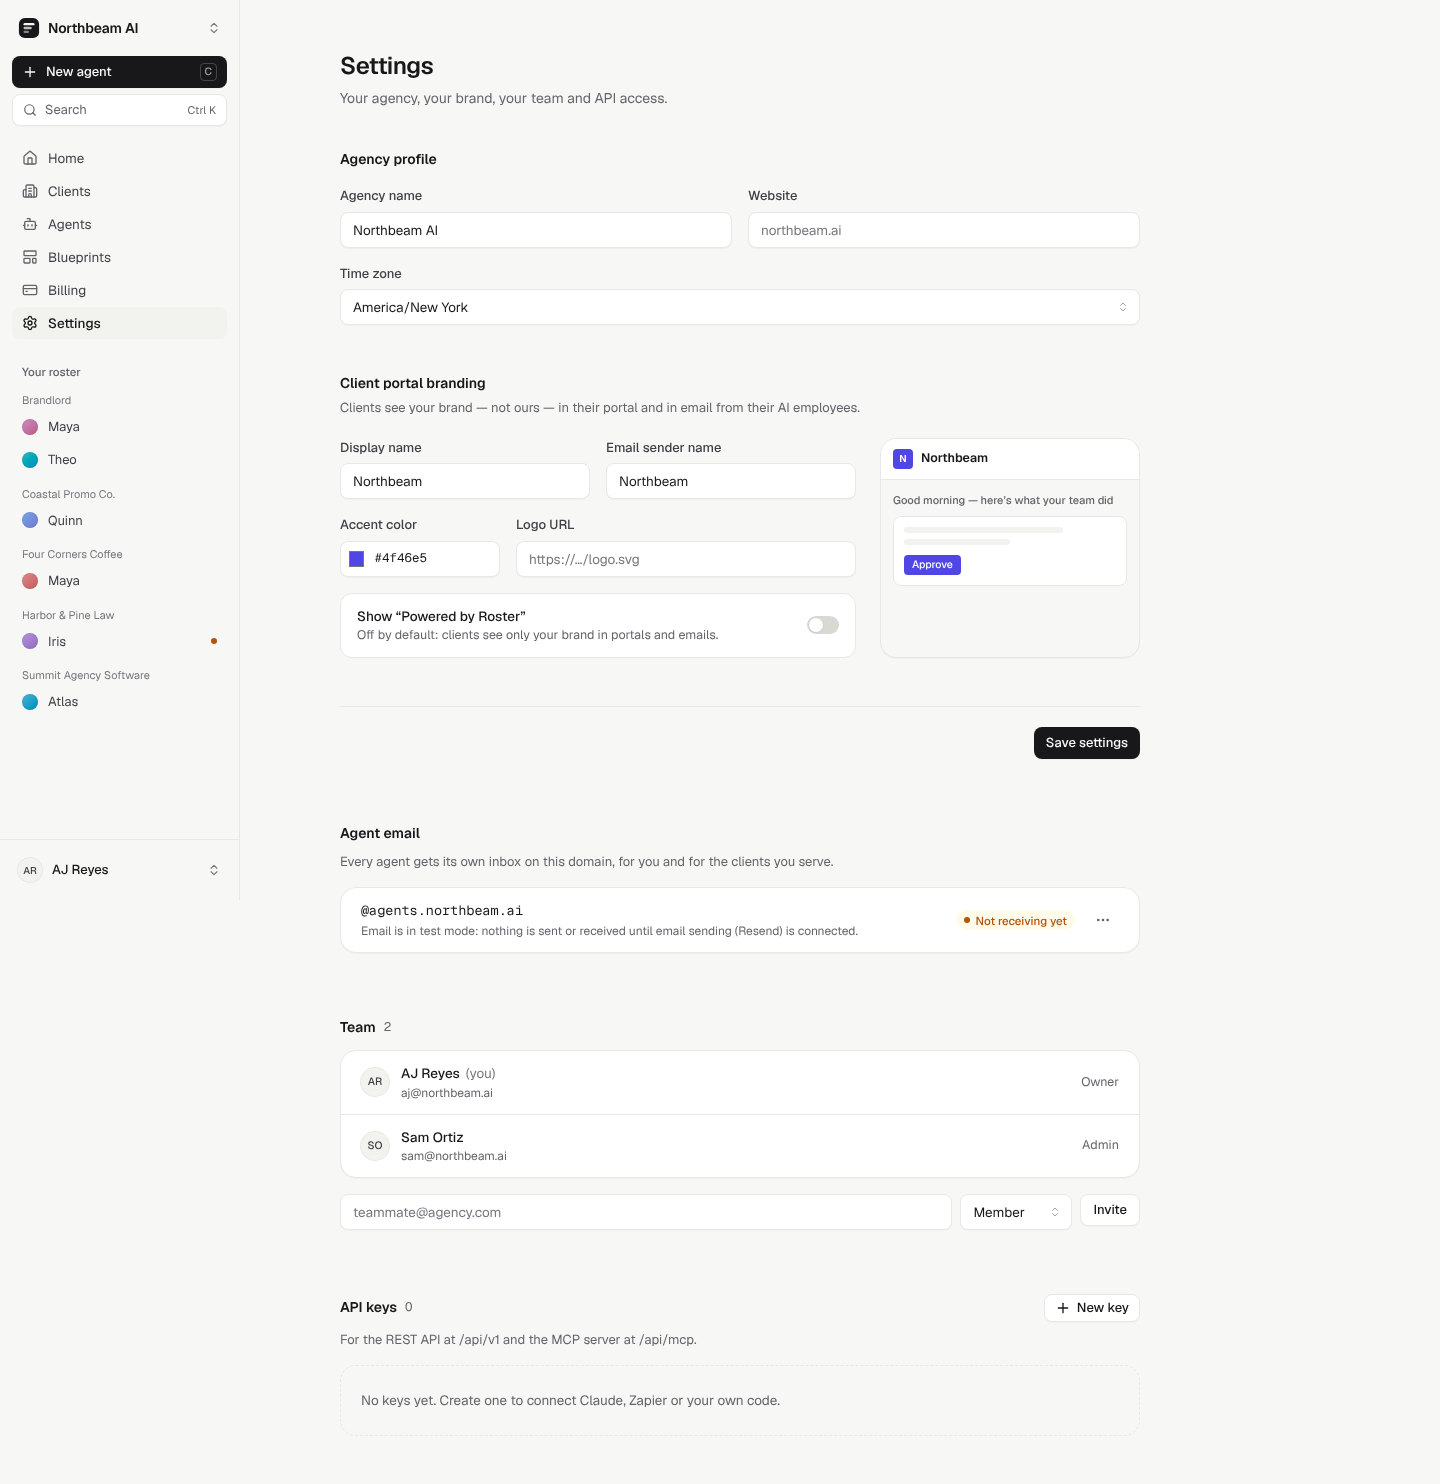
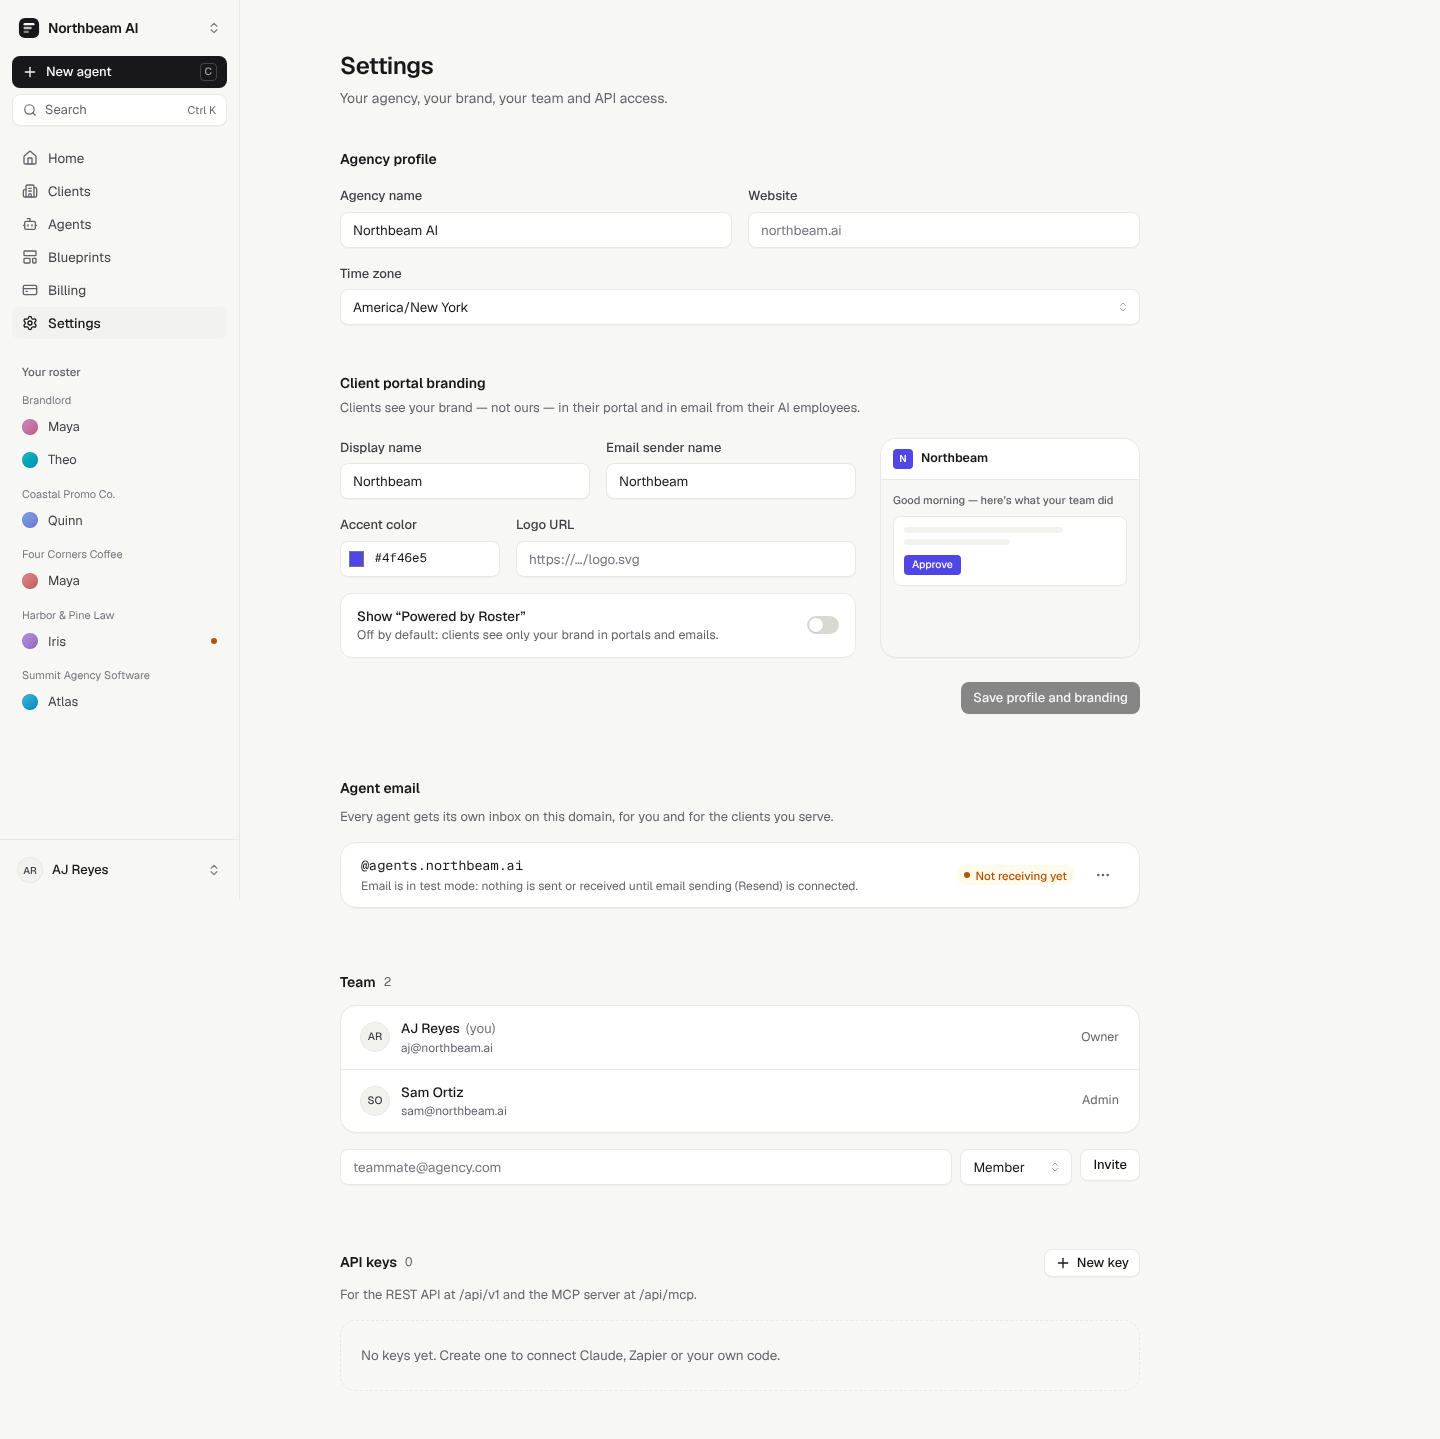
Portal: one email readiness state (addresses only when receiving), ⌘K palette with org-scoped search, exception-only status pills, timezone-correct greeting, deduped review cards
Claude-Session: https://claude.ai/code/session_01R829g3cx373VGQG4xJfwq5

diff --git a/tests/offline.compose.ridgeline.test.ts b/tests/offline.compose.ridgeline.test.ts
@@ -1,0 +1,97 @@
+/**
+ * Critic r5 (insurance agency, 18-row renewals.csv) regressions: the ask "every policy renewing in the next 30 days
+ * that hasn't been quoted yet, soonest first, a renewal email to each client" is 10 rows (9 without Castillo).
+ */
+import { readFileSync } from "node:fs";
+import { join } from "node:path";
+import { describe, expect, it } from "vitest";
+import { answerQuestion, compose, type Snip } from "@/server/llm/offline/compose";
+import { collectTables, planRows } from "@/server/llm/offline/tablework";
+
+const F = join(__dirname, "fixtures/ridgeline");
+const knowledge = JSON.parse(readFileSync(join(F, "knowledge.json"), "utf8")) as Snip[];
+const memories = JSON.parse(readFileSync(join(F, "memories.json"), "utf8")) as Snip[];
+const [wf] = JSON.parse(readFileSync(join(F, "workflows.json"), "utf8")) as Array<{ name: string; outputKind: string; instructions: string }>;
+const first = JSON.parse(readFileSync(join(F, "first-deliverable-input.json"), "utf8")) as Record<string, string>;
+const system = "You are Felix, Adjuster Follow-up Coordinator at Ridgeline Insurance Group.\n";
+const now = new Date("2026-11-02T08:00:00Z");
+const NINE = ["Summit Roofing", "Evergreen Landscaping", "Harlow Bakery", "Tri-County Electric", "Okoro Family Dental", "Brightwater Marina", "Northside Plumbing", "Oak Hollow Vineyard", "Delgado Auto Repair"];
+const rowsOf = (body: string) => [...body.matchAll(/^\| (\d+) \| ([^|]+) \|/gm)].map((m) => m[2]!.trim());
+const DEBUG = /Couldn't apply|no column called that|\(columns:|sort by “”|-\d+ days/;
+const run = (kind: string, title: string, output: string, body: string) => compose({ kind, title, output, body, system, knowledge, memories, now });
+
+describe("C-2 planRows reads plain asks", () => {
+  const [t] = collectTables(knowledge);
+  it("the file has 18 rows", () => expect(t!.rows).toHaveLength(18));
+  it("“next 30 days” beats the hypothetical “if I woke up tomorrow”; “hasn't been quoted” stays negative; soonest first", () => {
+    const p = planRows(t!, first.description!, [], now);
+    expect(p.applied).toEqual(["status is not quoted", "renewal date in the next 30 days"]);
+    expect(p.sortedBy).toBe("renewal date, soonest first");
+    expect(p.unmapped).toEqual([]);
+    expect(p.rows.map((r) => r[0])).toEqual(["Summit Roofing", "Evergreen Landscaping", "Harlow Bakery", "Castillo Builders", ...NINE.slice(3)]);
+  });
+  it("“not yet quoted”, “without a quote”, “most urgent first”", () => {
+    for (const ask of ["policies renewing within 30 days not yet quoted, most urgent first", "renewals in the next 30 days without a quote, earliest first"]) {
+      const p = planRows(t!, ask, [], now);
+      expect(p.rows).toHaveLength(10);
+      expect(p.rows[0]![0]).toBe("Summit Roofing");
+    }
+  });
+});
+
+describe("C-1 Run now on the email_draft workflow applies its own procedure", () => {
+  const d = run("workflow", wf!.name, wf!.outputKind, wf!.instructions);
+  it("9 rows, soonest first, Castillo skipped, one renewal email per contact", () => {
+    expect(rowsOf(d.body)).toEqual(NINE);
+    expect(d.body).toMatch(/^\| # \| client_name \| contact_name \| policy_type \| carrier \| renewal_date \| When \|$/m);
+    expect(d.body.match(/^\*\*To:\*\* /gm)).toHaveLength(9);
+    expect(d.body).toMatch(/\*\*To:\*\* Ben Carter <ben@summitroofing\.example\.com>/);
+    expect(d.body).not.toMatch(/Castillo Builders —|marco@|Blue Heron|owen@|days since we last heard/);
+    expect(d.body).not.toMatch(DEBUG);
+    expect(d.body).not.toMatch(/\$?\b(?:22100|22,100)\b[^|]*$/m); // no premium in the drafts
+  });
+  it("addresses Dr. Okoro as Dr. Okoro", () => {
+    expect(d.body).toMatch(/> Hi Dr\. Okoro,/);
+  });
+  it("never chases a lapsed client in the old follow-up path either", () => {
+    const old = run("workflow", "Follow-up", "email_draft", "Email each client with no reply in 5+ days and ask where things stand.");
+    expect(old.body).not.toMatch(/^\*\*To:\*\*.*owen@|^#### Blue Heron/m);
+  });
+});
+
+describe("first deliverable (the ask, held overnight)", () => {
+  const d = run("first_deliverable", first.title!, first.outputKind!, `${first.instructions}\n\nWhy: ${first.description}`);
+  it("lists the 10, Castillo listed but never drafted, no debug text", () => {
+    expect(rowsOf(d.body)).toHaveLength(10);
+    expect(d.body).toMatch(/\| Castillo Builders \|[^\n]*Do not contact \(your rule\)/);
+    expect(d.body).toMatch(/9 emails drafted/);
+    expect(d.body).not.toMatch(DEBUG);
+  });
+});
+
+describe("H-1 / H-3 / H-5", () => {
+  it("an unmappable sort is said once in plain words", () => {
+    const d = run("workflow", "Renewals", "table", "Use renewals.csv. List every policy that is not quoted, sorted by broker.");
+    expect(d.body).toMatch(/_Note: I couldn't tell which column “broker” means, so the rows keep the file's order\._/);
+    expect(d.body).not.toMatch(DEBUG);
+  });
+  it("a revision that cannot sort says so instead of claiming it re-sorted", () => {
+    const v1 = run("workflow", wf!.name, "table", wf!.instructions).body;
+    const r = run("revision", `${wf!.name} (revised)`, "table", `Revise the deliverable below. Feedback: Sort it by broker, top first.\n\nOriginal (“${wf!.name}”):\n${v1}`);
+    expect(r.body).not.toMatch(/re-sorted as asked/);
+  });
+  it("a draft about Erin Walsh goes to Erin, by first name, about the renewal", () => {
+    const d = run("message", "Renewal", "email_draft", "Draft a renewal email to Erin Walsh about her general liability renewal");
+    expect(d.body).toMatch(/\*\*To:\*\* Erin Walsh <erin@mapleleafdaycare\.example\.com>/);
+    expect(d.body).toMatch(/> Hi Erin,\n>\n> Your general liability policy with Philadelphia for Maple Leaf Daycare renews on Dec 1\./);
+    expect(d.body).not.toMatch(/Hi Maple|booked|7400|annual_premium/);
+  });
+  it("MCP/REST answer: same filters and sort, the full list, no negative days", () => {
+    const [a] = answerQuestion("Which policies renew in the next 30 days and are still not quoted, soonest first?", knowledge, now);
+    expect(a).toMatch(/^10 policies in renewals\.csv/);
+    expect(a).toMatch(/Summit Roofing — Nov 3 \(in 1 day\)/);
+    expect(a).toMatch(/Delgado Auto Repair — Nov 28 \(in 26 days\)/);
+    expect(a).not.toMatch(/-\d+ days|and \d+ more|Pine Street|Blue Heron/);
+    expect(a!.indexOf("Summit")).toBeLessThan(a!.indexOf("Delgado"));
+  });
+});

diff --git a/src/server/llm/offline/compose.ts b/src/server/llm/offline/compose.ts
@@ -330,7 +330,7 @@ function revise(input: ComposeInput, pool: Sent[]): Composed {
       const changed = [
         before ? (n !== m ? `${m} → ${n} rows` : `same ${n} rows`) : `turned it into the list from ${redo.data?.basis ?? "your file"} (${n} rows)`,
         /\bleave|left out|skip|remove|drop|exclude\b/i.test(fb) && (redo.data?.excluded ?? 0) > 0 ? `left out what you named` : null,
-        /\bfirst\b|\bsort|\border\b/i.test(fb) ? (redo.data?.sorted ? "re-sorted as asked" : n > 1 ? "couldn't tell how to sort it, so it keeps the file's order" : null) : null,
+        /\bfirst\b|\bsort|\border\b/i.test(fb) ? (redo.data?.sorted && fbPlans.some((x) => !!x.sortedBy) ? "re-sorted as asked" : n > 1 ? "couldn't tell how to sort it, so it keeps the file's order" : null) : null,
         /\b(?:text|message|email|reminder)s?\b/i.test(fb) && /## (?:Reminder texts|Emails)/.test(redo.body) ? "one draft per row" : null,
       ].filter(Boolean);
       return { ...redo, title: input.title, body: `## What changed\n\n${cap(changed.join("; "))}.\n\n${redo.body}`, preview: truncate(`Revised “${title}”: ${changed.join("; ")}.`, 200) };
@@ -594,7 +594,8 @@ export function compose(input: ComposeInput): Composed {
   const prefersText = input.memories.some((m) => m.kind === "preference" && /\btexts?\b|\balways text\b/i.test(m.text));
   const procedurePlans = input.kind !== "message" && input.kind !== "task" && collectTables(input.knowledge).some((t) => {
     const pl = planRows(t, taskTextOf(input, own), rules, now);
-    return pl.applied.length > 0 || !!pl.sortedBy;
+    // The procedure names its own rows: a value filter, an upcoming window or an order (not just "5+ days" heuristics).
+    return pl.applied.some((a) => / is |in the next/.test(a)) || !!pl.sortedBy;
   });
   if (!wantsProposal && !(wantsEmail && (namedIn(req, who).length || /#?\b[A-Z]{2,}-?\d{3,}\b/.test(req) || (input.kind !== "message" && input.output === "email_draft" && !procedurePlans)))) {
     const tw = tableWork(input, own, rules, who, now, prefersText);
@@ -627,7 +628,9 @@ export function compose(input: ComposeInput): Composed {
     let noDraftReason: string | null = null;
     let targetedFrom: string | null = null;
     const data = tables.find((t) => t.rows.length && (!ref || t.rows.some((r) => r.join(" ").includes(ref))));
-    const rowsFor = data ? (ref ? data.rows.filter((r) => r.join(" ").includes(ref)) : data.staleCol != null ? data.rows.filter((r) => Number(r[data.staleCol!]) >= 5) : data.rows).slice(0, 5) : [];
+    // Never chase a row whose status says it's over (lapsed, cancelled…) unless the task is a win-back.
+    const isClosed = (t: Analysis, r: string[]) => !/\bwin[- ]?back|\breactivat|\blapsed\b/i.test(own) && t.headers.some((h, i) => /status|stage|state/i.test(h) && /\b(?:lapsed|cancel+ed|closed|declined|lost|non-?renew\w*|inactive|terminated)\b/i.test(r[i] ?? ""));
+    const rowsFor = data ? (ref ? data.rows.filter((r) => r.join(" ").includes(ref)) : data.staleCol != null ? data.rows.filter((r) => Number(r[data.staleCol!]) >= 5 && !isClosed(data, r)) : data.rows.filter((r) => !isClosed(data, r))).slice(0, 5) : [];
     const col = (t: Analysis, re: RegExp) => t.headers.findIndex((h) => re.test(h));
     // A request that names someone ("a reply to Lorna Fitch at Bayside") goes to that match only, or to nobody.
     const named = !ref && !ev?.from ? namedIn(req, who) : [];

diff --git a/tests/portal.lib.test.ts b/tests/portal.lib.test.ts
@@ -16,8 +16,11 @@ import {
   clientSafeText,
   deliverableDomain,
   draftSendStatus,
+  emailReadinessFrom,
   resolveBrand,
+  reviewTitleKey,
 } from "@/server/queries/portal";
+import { clockTime, displayFirstName } from "@/components/portal/lib";
 import type { Org } from "@/server/auth/access";
 
 describe("portal: plain-English schedules", () => {
@@ -200,5 +203,34 @@ describe("agent address domains", () => {
     expect(deliverableDomain("team.example")).toBe(false);
     expect(deliverableDomain("team.northbeam.ai")).toBe(true);
     expect(deliverableDomain("agents.brandlord.co")).toBe(true);
+  });
+});
+
+describe("email readiness (one status for addresses)", () => {
+  it("only receives with both directions on a routable domain", () => {
+    expect(emailReadinessFrom({ email: true, emailInbound: true }, "agents.northbeam.ai")).toBe("receiving");
+    expect(emailReadinessFrom({ email: true, emailInbound: false }, "agents.northbeam.ai")).toBe("sending_only");
+    expect(emailReadinessFrom({ email: false, emailInbound: true }, "agents.northbeam.ai")).toBe("not_set_up");
+    expect(emailReadinessFrom({ email: true, emailInbound: true }, "agents.roster.local")).toBe("not_set_up");
+  });
+});
+
+describe("greeting, names, times, duplicate reviews", () => {
+  it("uses the org timezone and a neutral small-hours greeting", () => {
+    const threeAmNy = new Date("2026-11-02T08:00:00Z");
+    expect(greeting("America/New_York", threeAmNy)).toBe("Hello");
+    expect(greeting("America/New_York", new Date("2026-11-02T14:00:00Z"))).toBe("Good morning");
+    expect(greeting("America/New_York", new Date("2026-11-02T23:30:00Z"))).toBe("Good evening");
+  });
+  it("capitalizes lowercase first names only", () => {
+    expect(displayFirstName("linda")).toBe("Linda");
+    expect(displayFirstName("McKenna")).toBe("McKenna");
+  });
+  it("drops :00 so times match schedules", () => {
+    expect(clockTime(new Date("2026-11-02T11:00:00Z"), "America/New_York")).toBe("6 AM");
+    expect(clockTime(new Date("2026-11-02T14:08:00Z"), "America/New_York")).toBe("9:08 AM");
+  });
+  it("treats a revised copy as the same piece of work", () => {
+    expect(reviewTitleKey("Renewals due in 30 days (revised)")).toBe(reviewTitleKey("Renewals  due in 30 days"));
   });
 });

diff --git a/tests/offline.compose.work.test.ts b/tests/offline.compose.work.test.ts
@@ -58,7 +58,7 @@ describe("tables from chunks", () => {
   it("says which column it needs when the criteria don't map, and shows every row", () => {
     const csv: Snip = { title: "invoices.csv", text: "customer,invoice,amount\nAcme,INV-1,$400\nBolt,INV-2,$1200\nCrane,INV-3,$90" };
     const d = compose({ kind: "workflow", title: "Collections", output: "table", body: "Read invoices.csv. List every invoice past due, sorted by due date.", system, knowledge: [csv], memories: [], now });
-    expect(d.body).toMatch(/Couldn't apply:.*(?:due-date|status) column/);
+    expect(d.body).toMatch(/_Note: The file has no due date or status, so I couldn't tell which rows are overdue; showing every row\._/);
     expect(tableRows(d.body)).toHaveLength(3);
     expect(d.body).not.toMatch(JUNK);
   });
@@ -111,7 +111,7 @@ describe("first deliverable (held overnight) with the CSV on file", () => {
 describe("questions answered from the rows (chat / REST / MCP ask_agent)", () => {
   it("“Which patients are >100 days overdue?” → Hazel 125, Juniper 105", () => {
     const [a] = answerQuestion("Which patients are >100 days overdue?", knowledge, now);
-    expect(a).toMatch(/^2 patients in overdue_patients\.csv are more than 100 days overdue: Hazel — 125 days \(Nora Patel\); Juniper — 105 days \(Alicia Moreno\)/);
+    expect(a).toMatch(/^2 patients in overdue_patients\.csv are more than 100 days overdue(?:, most overdue first)?: Hazel — 125 days \(Nora Patel\); Juniper — 105 days \(Alicia Moreno\)/);
     expect(a).not.toMatch(/Biscuit|Mochi/);
   });
   it("counts with a threshold", () => {

diff --git a/src/server/llm/offline/tablework.ts b/src/server/llm/offline/tablework.ts
@@ -415,11 +415,14 @@ export function planRows(table: FileTable, text: string, rules: string[], now: D
         : /^(?:last|past)/.test(w) ? [new Date(d0.getTime() - N * DAY), new Date(d0.getTime() + DAY)]
         : /^in\b/.test(w) ? [d0, new Date(d0.getTime() + (N + 1) * DAY)]
         : [d0, new Date(d0.getTime() + (N + 1) * DAY)];
+      // "skip anyone contacted in the last 7 days": the window says who to leave out.
+      const invert = new RegExp(`\\b(?:skip|exclude|leave out|except|omit|not)\\b[^.;]*${w.replace(/[.*+?^${}()|[\]\\]/g, "\\$&")}`).test(lower);
       rows = rows.filter((r) => {
         const d = parseDate(r[dc] ?? "");
-        return !!d && d >= from && d < to;
+        return invert ? !d || d < from || d >= to : !!d && d >= from && d < to;
       });
-      applied.push(`${label(dc)} ${w.replace(/^within(?: the)? next|^in(?: the)? next|^within|^in\b/, "in the next").replace(/^in the next next/, "in the next")}`);
+      if (invert) applied.push(`${label(dc)} not ${w}`);
+      else applied.push(`${label(dc)} ${w.replace(/^within(?: the)? next|^in(?: the)? next|^within|^in\b/, "in the next").replace(/^in the next next/, "in the next")}`);
       windowCol = dc;
     } else unmapped.push(`I couldn't find a date in the file to apply “${win[1]}” to, so I didn't filter by date`);
   }

diff --git a/src/components/shared/email-domain-form.tsx b/src/components/shared/email-domain-form.tsx
@@ -113,11 +113,16 @@ export function EmailDomainForm({
           <div className="flex items-center gap-3 rounded-xl border border-line bg-surface px-4 py-3 shadow-xs sm:px-5">
             <div className="min-w-0 flex-1">
               <p className="truncate font-mono text-[13.5px] text-ink">@{domain.domain}</p>
+              <div className="mt-1 sm:hidden">
+                <StatusBadge d={domain} readiness={readiness} />
+              </div>
               <p className="mt-0.5 text-[12px] text-ink-3">
                 {domain.status === "verified" ? (readiness?.detail ?? `Agents send and receive email as name@${domain.domain}.`) : "Agents keep using @" + effectiveDomain + " until this is verified."}
               </p>
             </div>
-            <StatusBadge d={domain} readiness={readiness} />
+            <span className="max-sm:hidden">
+              <StatusBadge d={domain} readiness={readiness} />
+            </span>
             {domain.status !== "verified" ? (
               <Button size="sm" variant="secondary" onClick={check} disabled={pending}>
                 {pending ? "Checking…" : "Check now"}

diff --git a/src/components/portal/workflow-switch.tsx b/src/components/portal/workflow-switch.tsx
@@ -23,7 +23,8 @@ export function WorkflowSwitch({
   const router = useRouter();
   return (
     <label className="inline-flex shrink-0 cursor-pointer items-center gap-2 text-[12px] text-ink-3">
-      <span aria-hidden>{on ? "On" : "Paused"}</span>
+      {/* The switch already says "on"; only the exception gets words. */}
+      {on ? null : <span aria-hidden>Paused</span>}
       <Switch
         checked={on}
         disabled={pending}
